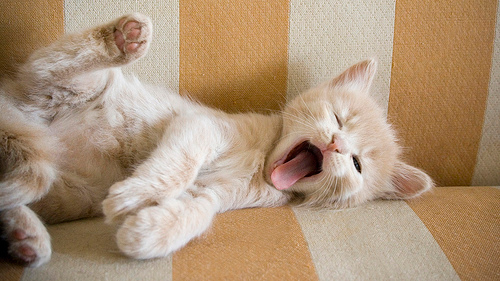
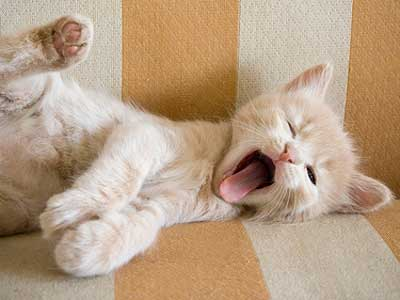
DogsVCatsStyling

diff --git a/cats-vs-dogs/index.html b/cats-vs-dogs/index.html
@@ -6,28 +6,30 @@
     	<!--[if lt IE 9]>
     	<script src="http://html5shiv.googlecode.com/svn/trunk/html5.js"></script>
     	<![endif]-->
-  	<link rel="stylesheet" href="style.css" type="text/css" media="screen" />
+  	<link rel="stylesheet" href="reset.css" type="text/css" media="screen" />
   </head>
   <body>
-    <img src="images/dogvscat-logo.gif" alt="header" />
-    <nav>
-    	<ul>
+    <header>
+     <img id="logo" src="images/dogvscat-logo.gif" alt="header" />
+     <nav>
+    	 <ul>
     		<li>Photos</li>
     		<li>About</li>
     		<li>Submit</li>
     		<li>Blog</li>
     		<li>Contact</li>
-    	</ul>	
-    </nav>
-    <section>
-       <h1><img src="images/fount_3_074.jpg" alt="https://contest.thesca.org/sites/default/files/imagecache/large/snow2012/fount_3_074.jpg" /></h1>
+    	 </ul>	
+      </nav>
+    </header>
+    <section id="dogs">
+       <h1><img id "dog" src="images/fount_3_074.jpg" alt="https://contest.thesca.org/sites/default/files/imagecache/large/snow2012/fount_3_074.jpg" /></h1>
        <h2>Dogs Have Better Noses</h2>
        <p>
        	Dogs can discriminate odors at concentrations nearly 100 million times lower than humans can. The wet nose is essential for determining the direction of the air current containing the smell. Cold receptors in the skin are sensitive to the cooling of the skin by evaporation of the moisture by air currents.
        </p>
     </section>
-    <section>
-    	<h1><img src="images/hump_day_yawn_cat.jpg" alt="http://cache.jezebel.com/assets/images/39/2010/10/hump_day_yawn_cat.jpg" />
+    <section id="cats"> 
+    	<h1><img id "cat" src="images/hump_day_yawn_cat.jpg" alt="http://cache.jezebel.com/assets/images/39/2010/10/hump_day_yawn_cat.jpg" />
       </h1>
       <h2>Cats Have Better Tongues</h2>
       <p>
@@ -35,10 +37,8 @@
       </p>
     </section>
     <footer>
-    	<p>
-    		Images and copy from Wiki Commons
-    		Copyright ©2011 Martha Rettig
-    	</p>
+      <p id="footnote1">images and copy from <a href="#">wiki commons</a></p>
+      <p id="footnote2">copyright ©2011 <a href="#">martha rettig</a></p>
     </footer>
   </body>
 </html>

diff --git a/cats-vs-dogs/reset.css b/cats-vs-dogs/reset.css
@@ -74,3 +74,71 @@ html[xmlns] .clearfix { display: block; }
 * html .clearfix { height: 1%; }
 
 
+/* End Reset */
+
+body {width:820px;
+	font-family: Georgia;
+	text-align: center;
+	margin-left: auto;
+	margin-right: auto;
+	}
+
+#logo {padding: 30px;
+	}
+
+li {float:left;
+    text-transform:uppercase;
+	font-size:24px;
+	font-weight:bold;
+	padding-top:10px;
+	margin-bottom: 20px;
+	border-top: 3pt solid black;
+	border-bottom: 3pt solid black;
+	width: 150px;
+	height: 30px;
+	}
+
+#dog {float: left;
+	  width: 400px;
+	  height: 300px;
+	  padding-bottom: 20px;
+	  }
+#cat {float: left;
+	  width: 400px;
+	  height: 300px;
+	  padding-bottom: 20px;
+	}
+#dogs {float: left;
+       width: 400px;
+       height: 465px;
+       text-align:left;
+       padding-bottom:20px
+       }
+      
+#cats {float:right;
+       width: 400px;
+       height: 465px;
+       text-align:left;
+       padding-bottom:20px;
+       }    
+h2 {font-weight: bold;
+	font-size: 18px;
+	padding: 10px 0px;} 
+p {font-size: 14px;
+	line-height: 1.5}
+#footnote1 {font-size: 10px;
+	float: left;
+	width: 410px;
+	padding-bottom: 30px;
+	padding-top: 30px;
+	text-align: left;
+	border-top: 3px solid black}
+#footnote2 {font-size: 10px;
+	float: left;
+	width: 410px;
+	padding-bottom: 30px;
+	padding-top: 30px;
+	text-align: right;
+	border-top: 3px solid black}
+
+
